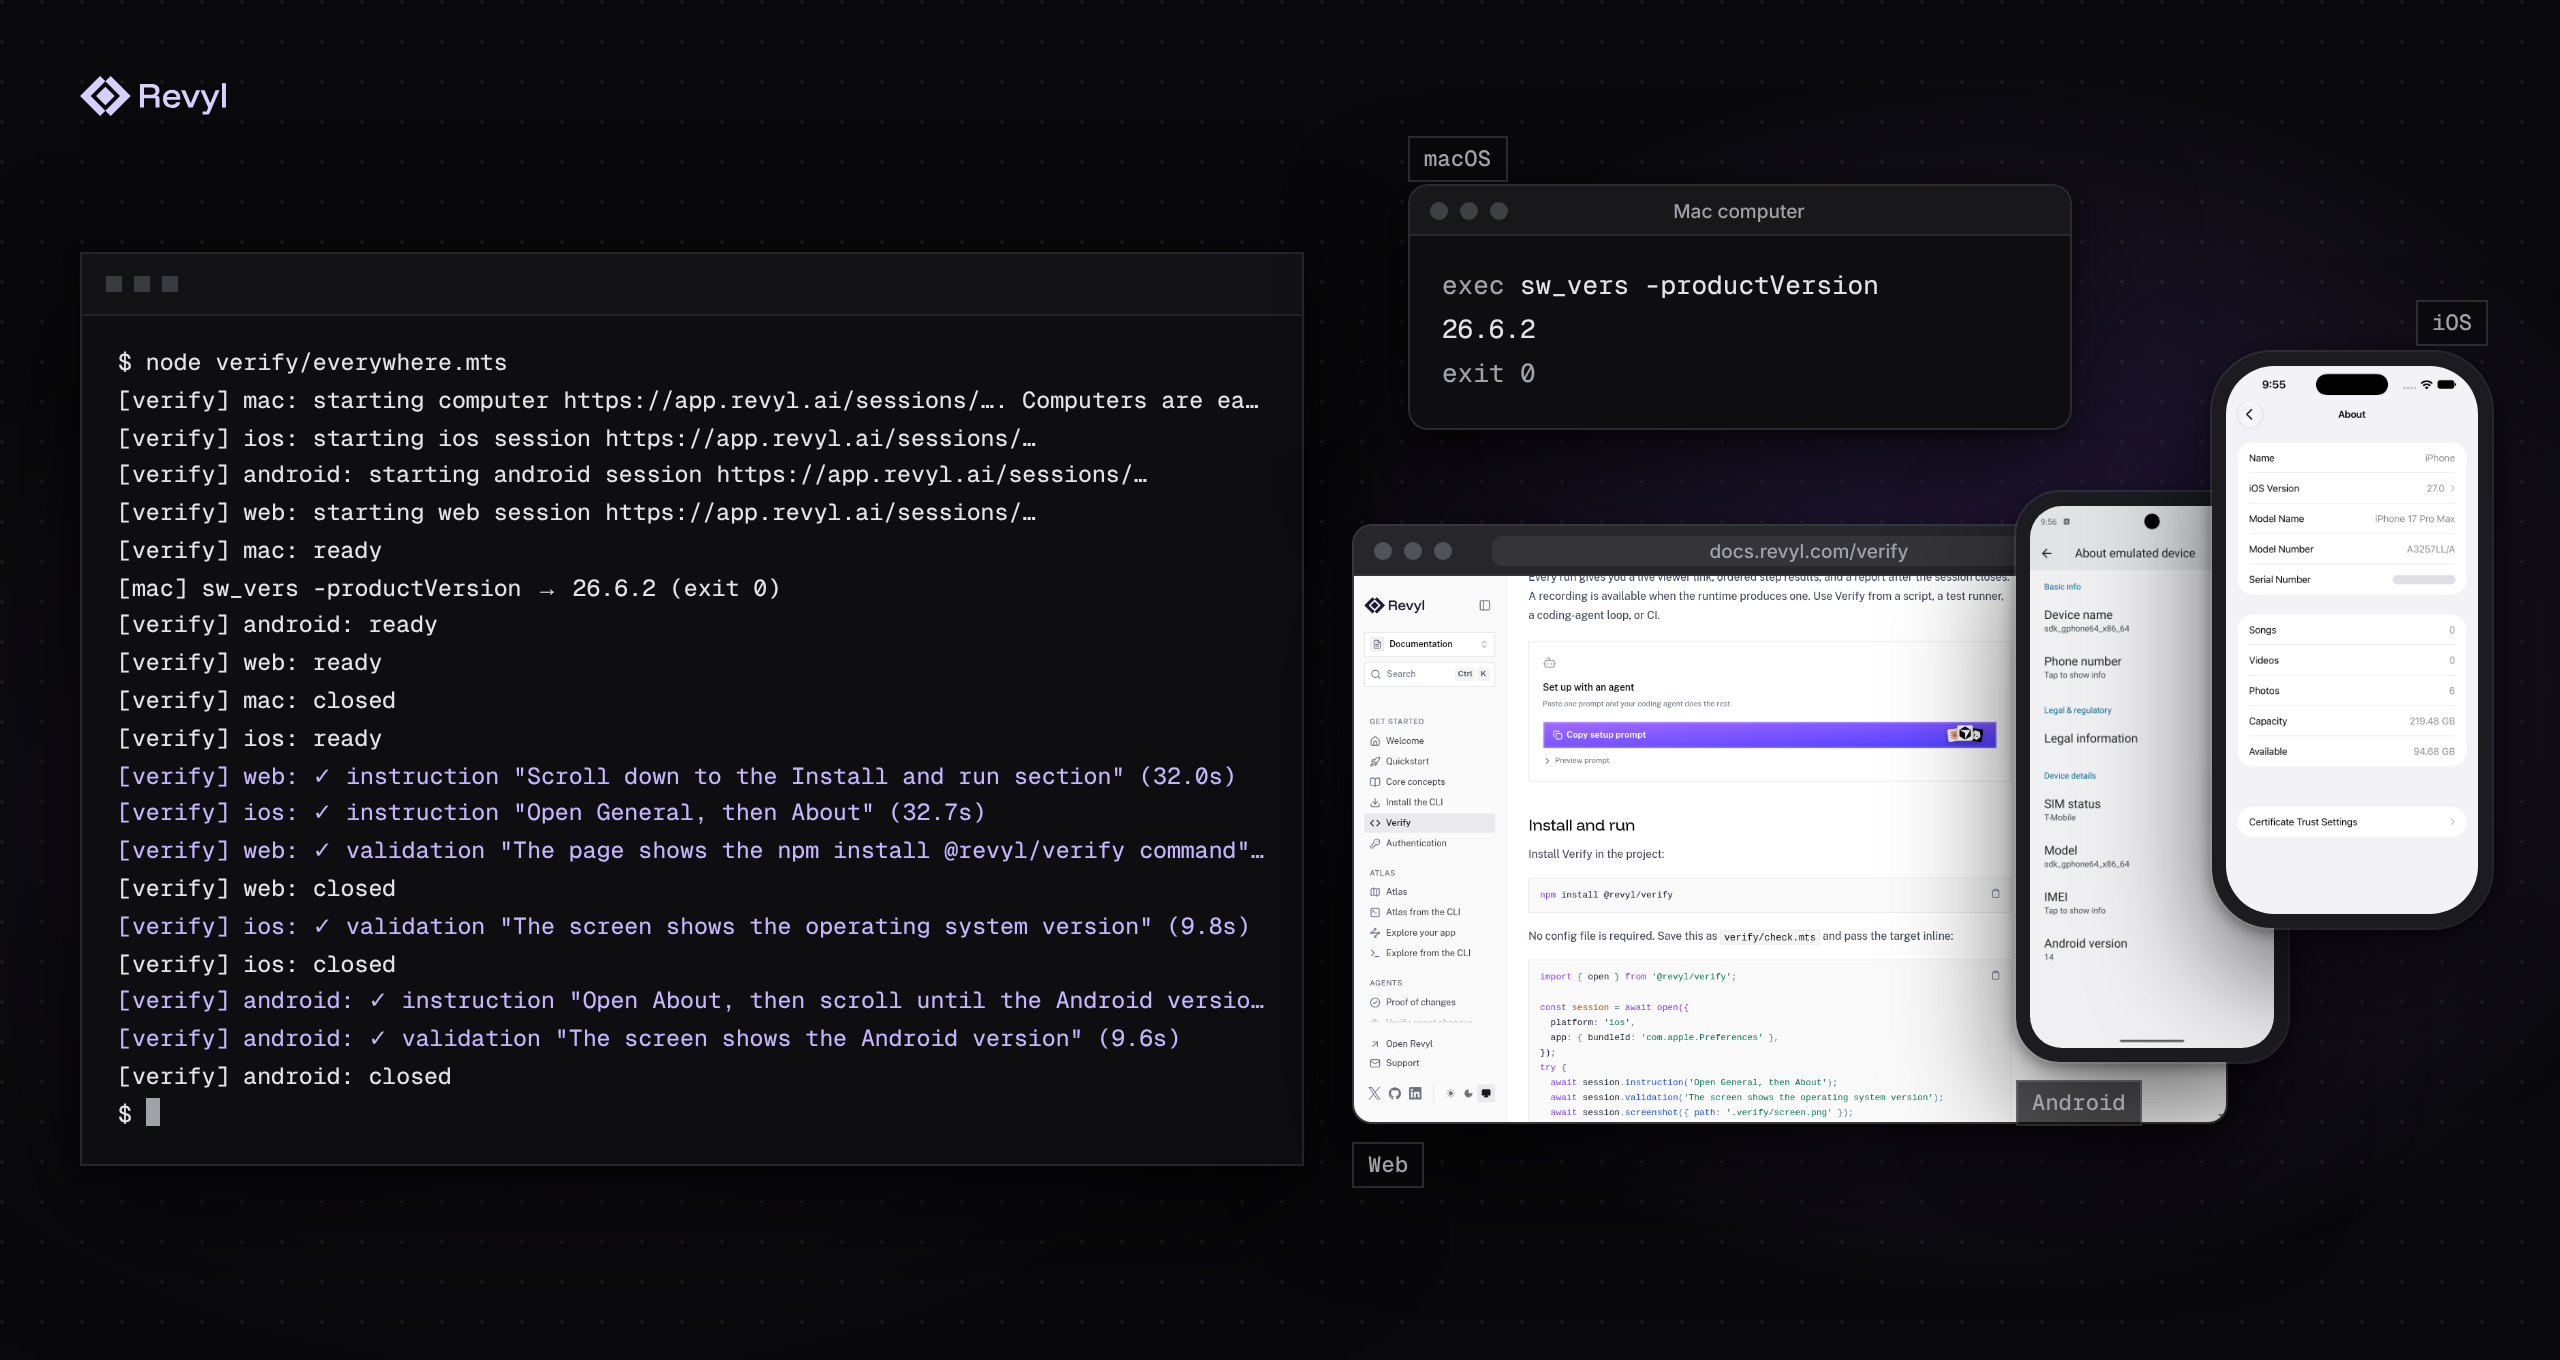
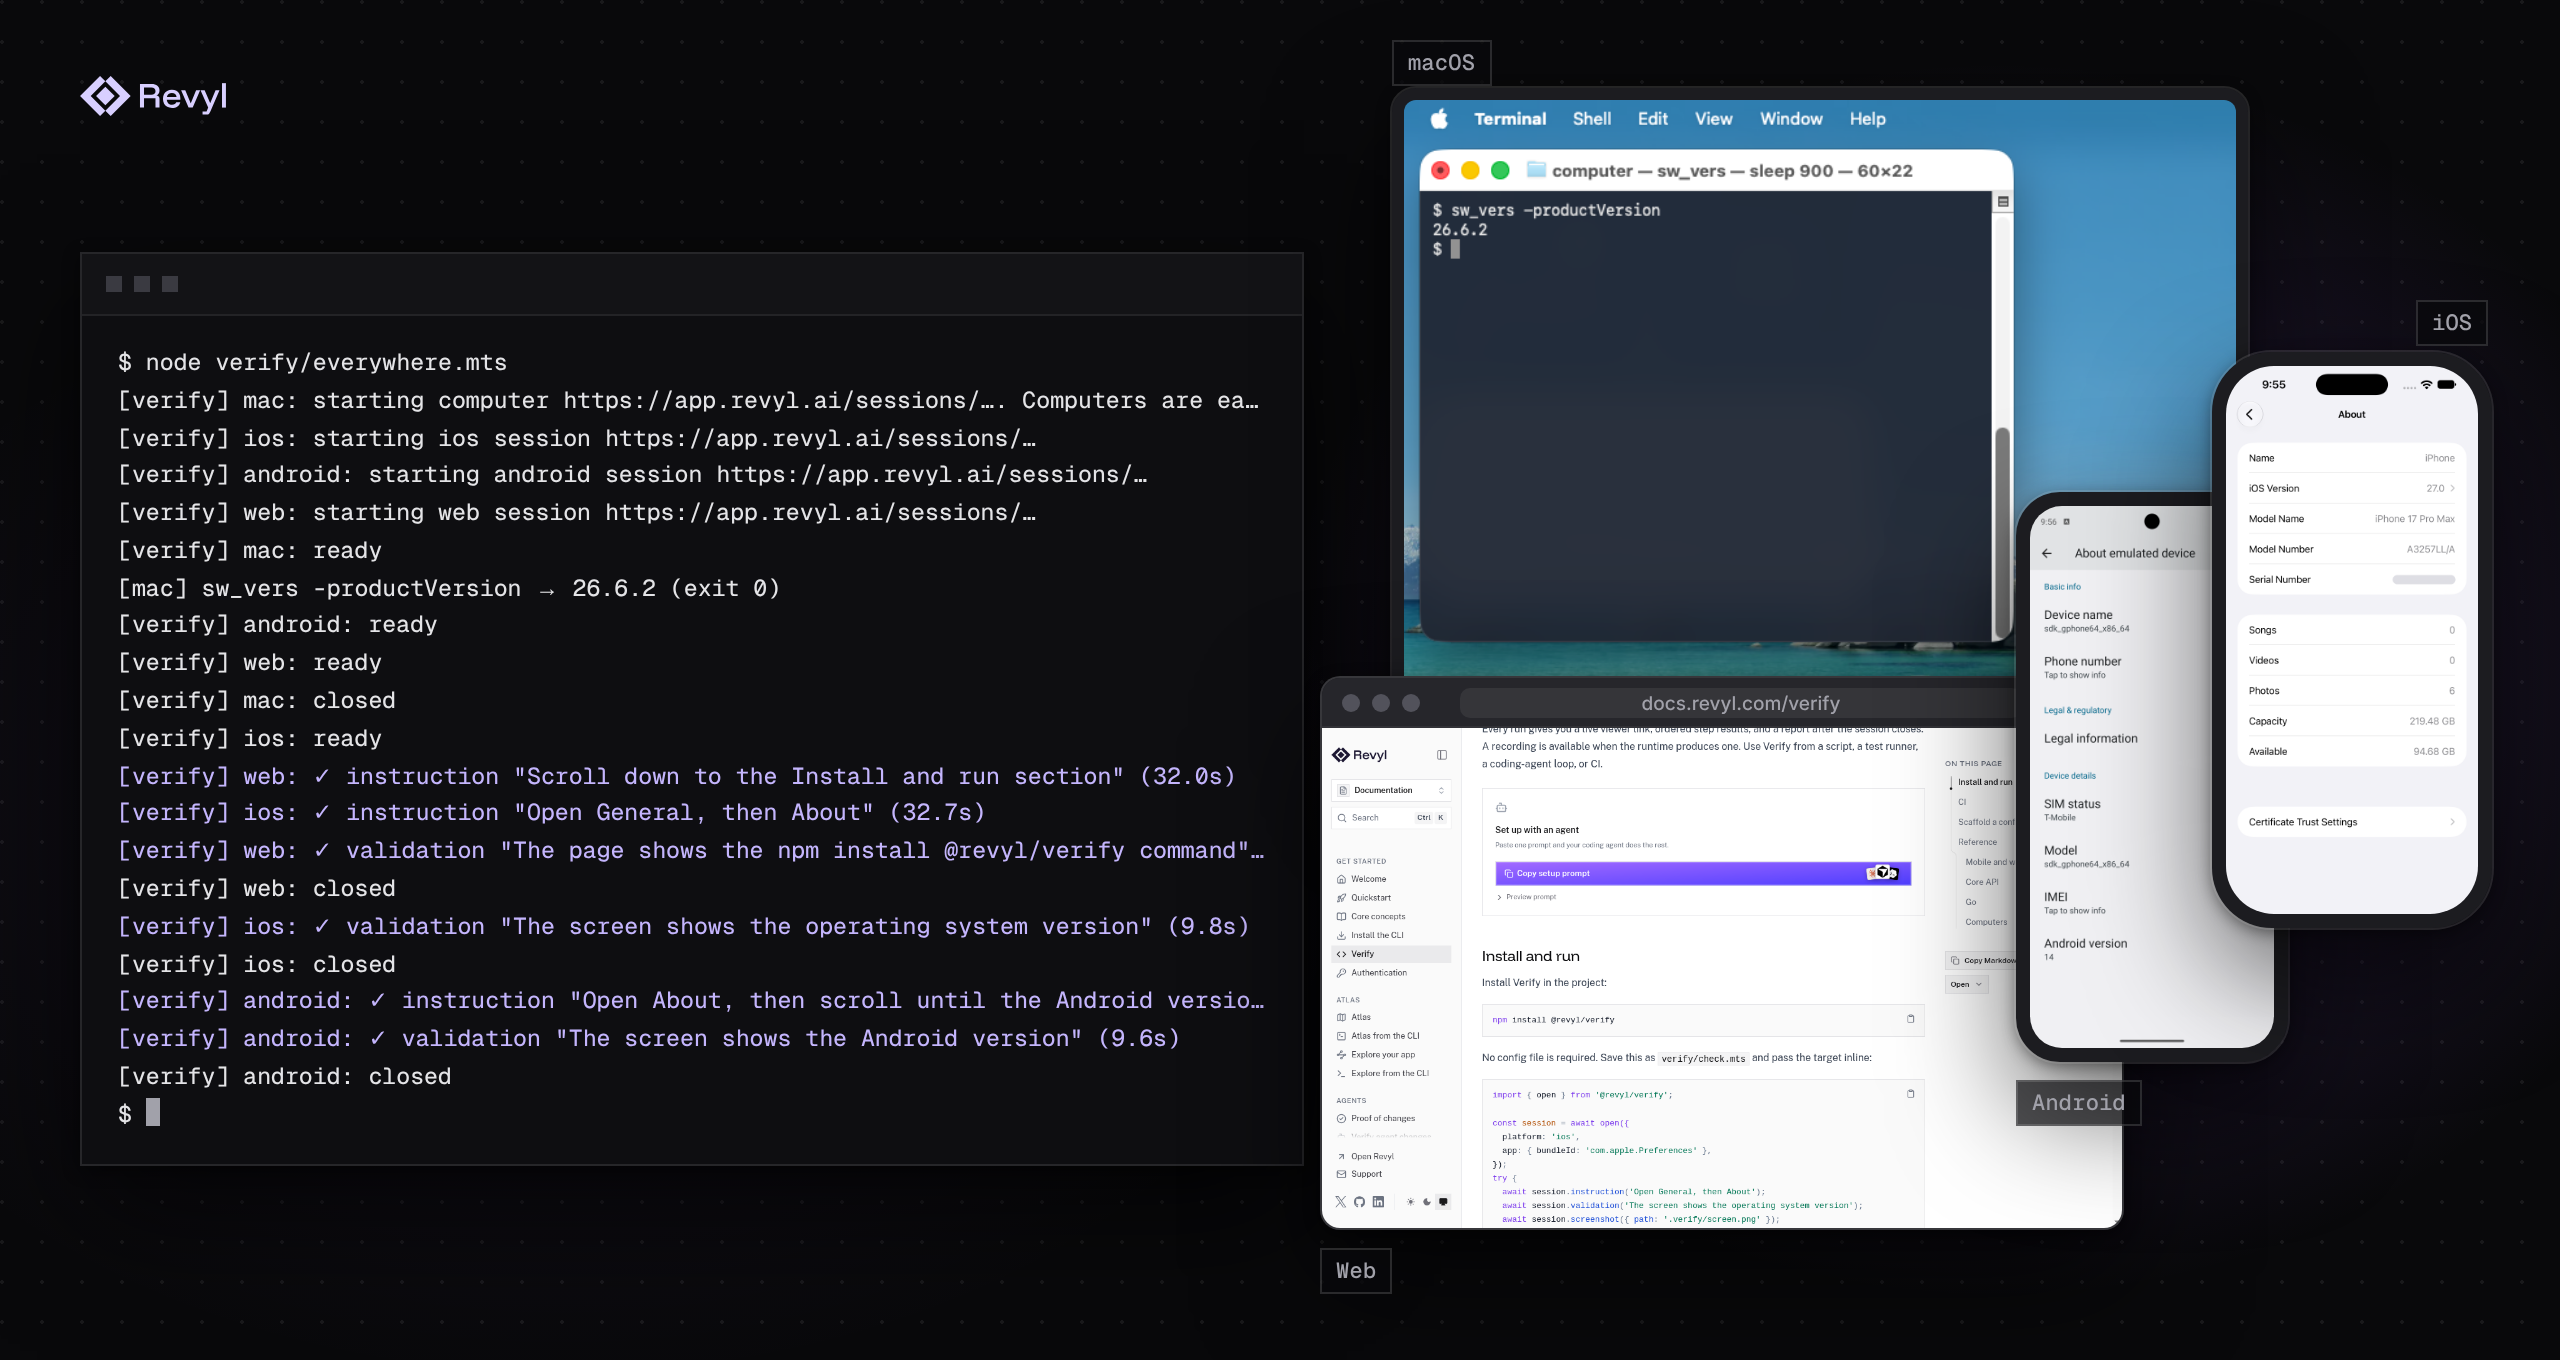
docs: show a real Mac screen in the README hero (#26)
Replace the Mac command card with a screenshot from a Verify Mac computer session: Terminal after sw_vers -productVersion.

Changed region(s): [[0.5, 0.0309, 0.875, 0.9574], [0.7188, 0.6794, 0.7812, 0.7103]]

diff --git a/README.md b/README.md
@@ -1,6 +1,6 @@
 # Verify
 
-![Terminal output from one Verify script beside a Mac computer's command result and the screens it reached in a cloud browser, an Android emulator, and an iOS simulator](docs/images/verify-hero.webp)
+![Terminal output from one Verify script beside a Mac computer's Terminal window showing the macOS version, and the screens the script reached in a cloud browser, an Android emulator, and an iOS simulator](docs/images/verify-hero.webp)
 
 Verify runs end-to-end checks in a real browser, iOS simulator, or Android emulator on Revyl. You describe what the agent should do and what must be true afterward, instead of maintaining selectors and coordinates that break when a screen changes. Use it from a script, a coding agent, or the test runner you already have. Mac and Linux computers are also available for commands, files, and screenshots, not natural-language steps.
 
